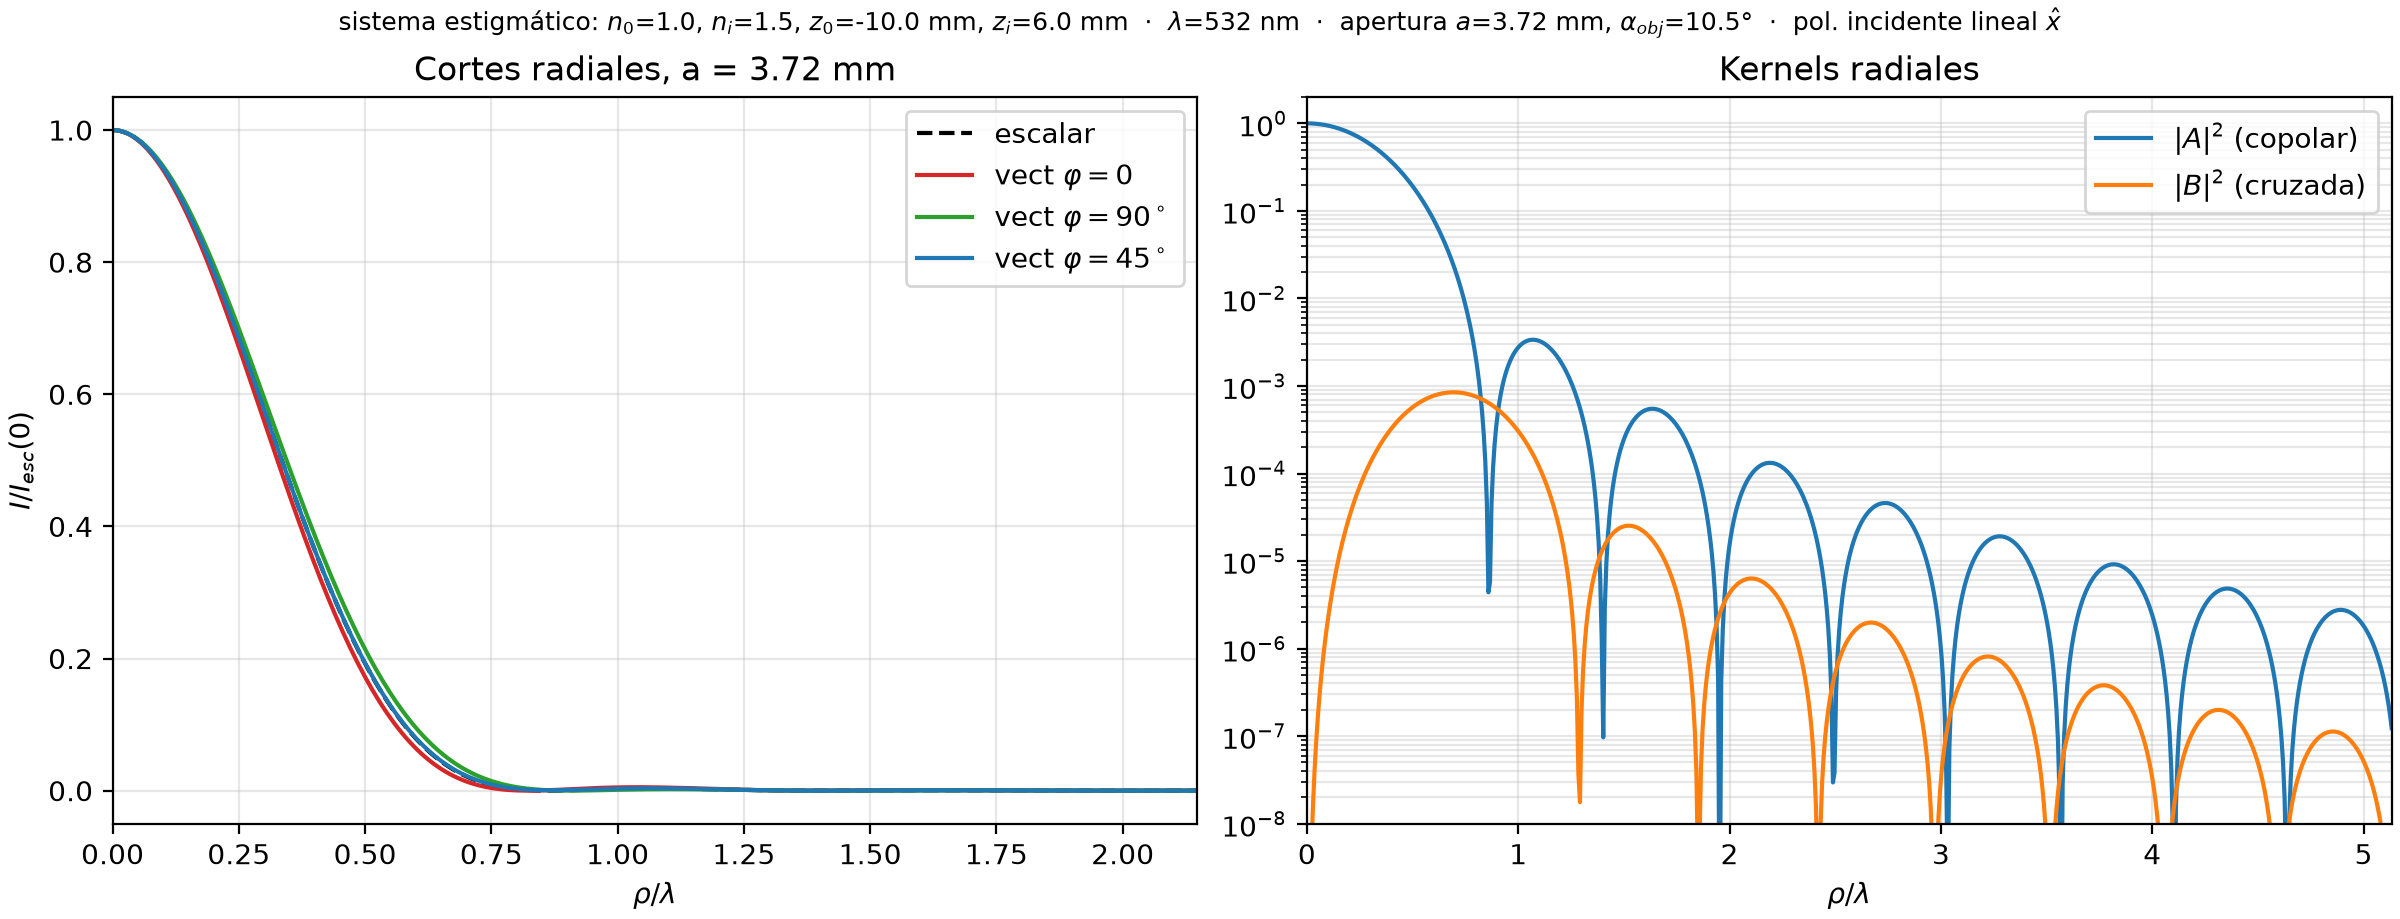
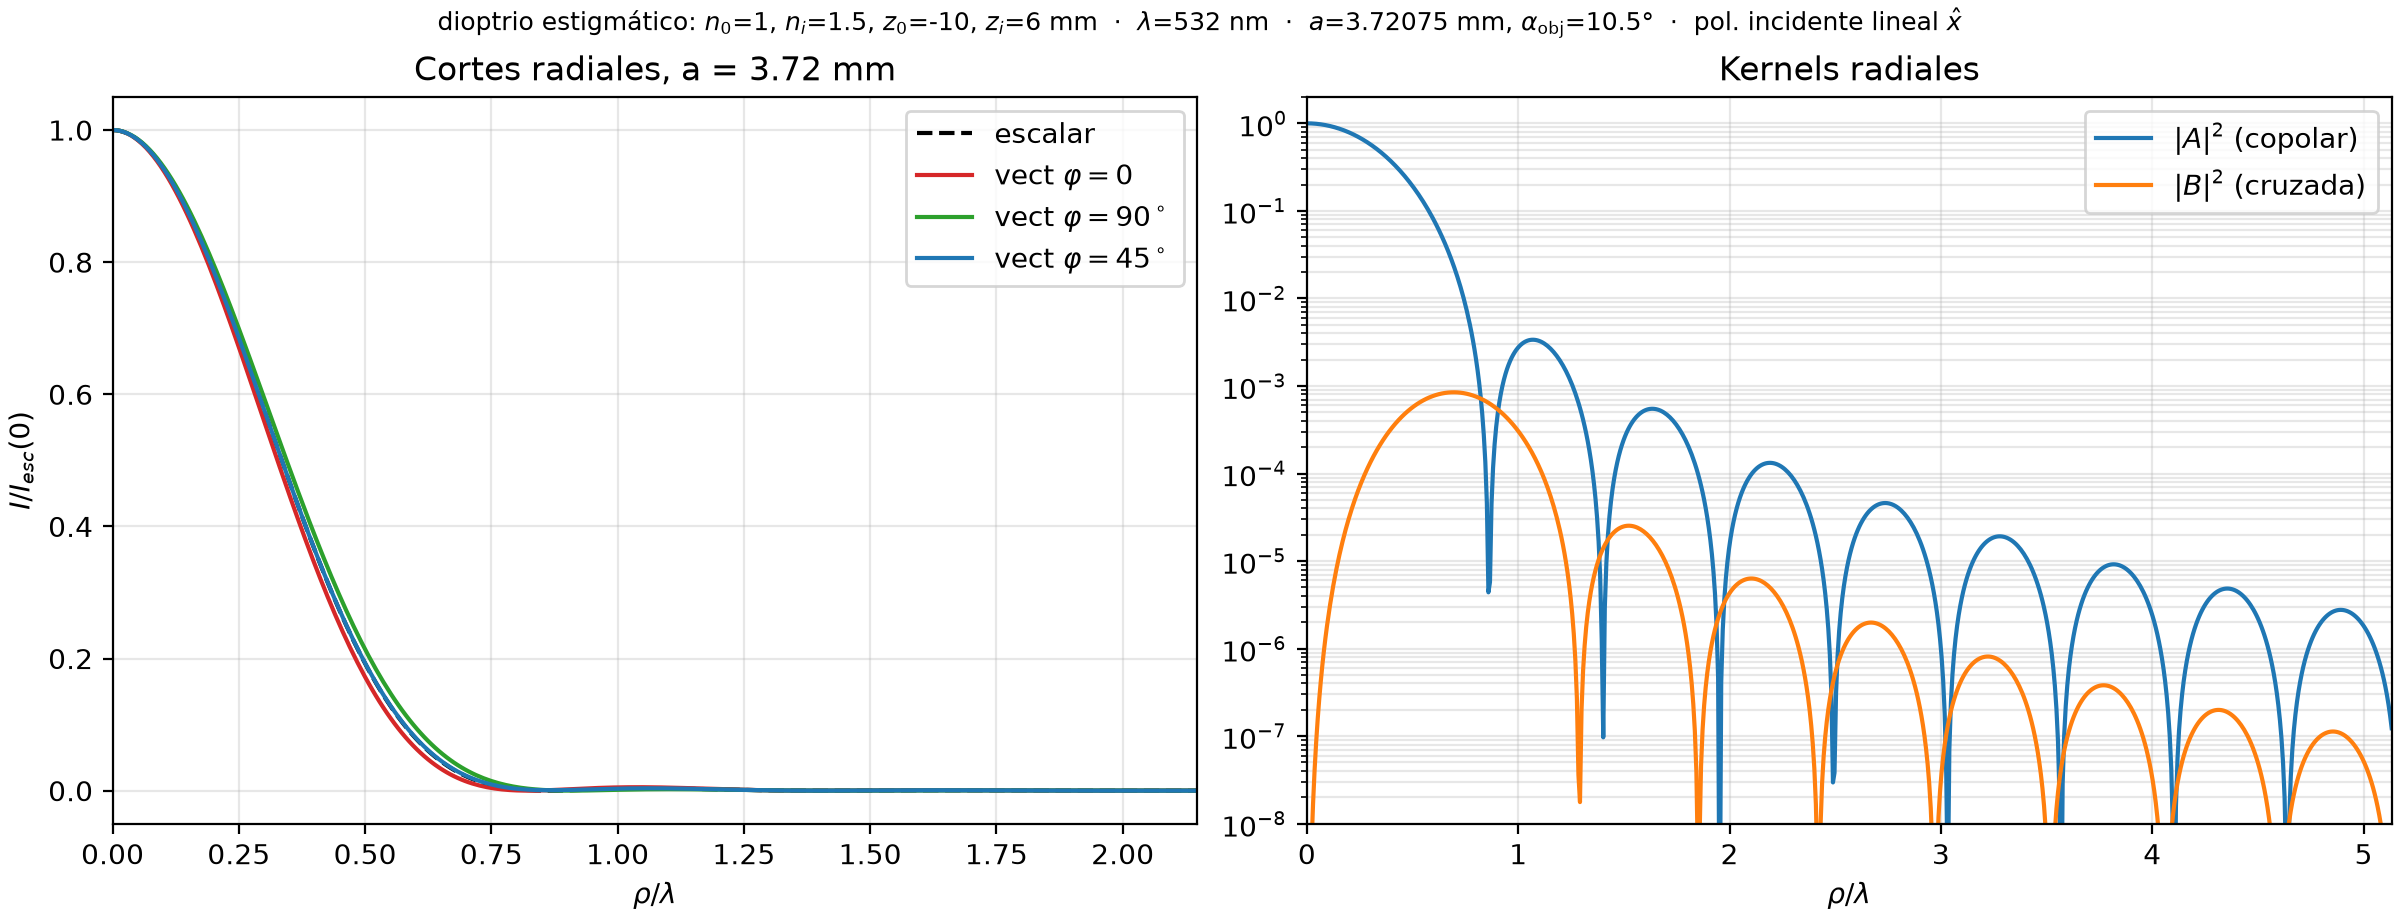
Compact the figure system captions (single line, exploit conjugation)
The two-diopter caption listed both diopters in full, which was too long.
Since the diopters are conjugate (D2 runs ni->n0 and z0(D2)=-zi(D1)), the
whole cascade is fixed by the index pair and the three axial planes
z0, zi1, zi2 -- now reported once.  Single-diopter caption trimmed with %g
formatting to drop trailing .0 as well.

Changed region(s): [[0.125, 0.0, 0.8438, 0.0305]]

diff --git a/investigation/focal_plane_aperture_study/imaging_common.py b/investigation/focal_plane_aperture_study/imaging_common.py
@@ -46,19 +46,20 @@ def airy_radius(r_a):
 
 
 def system_caption(r_a=None, *, d2=None, lam=LAM):
-    """One-line summary of the two-diopter stigmatic imaging system.
+    """Compact one-line summary of the two-diopter stigmatic imaging system.
 
-    Reports both diopters (n0, ni, z0, zi) and the wavelength; when a pupil
-    radius ``r_a`` is given, appends it and the maximum object-side aperture
-    angle ``alpha = arctan(r_a / |z0(D1)|)``.
+    The diopters are conjugate: D2 runs the indices back (ni -> n0) and its
+    object plane is fixed by D1's image plane, ``z0(D2) = -zi(D1)``.  So the
+    whole cascade is set by the index pair and the three axial planes
+    ``z0, zi1, zi2`` -- the rest is redundant and omitted.
     """
     d2 = D2 if d2 is None else d2
-    cap = (rf"D1: $n_0$={D1['n0']}$\to${D1['ni']}, $z_0$={D1['z0']}, $z_i$={D1['zi']} mm  ·  "
-           rf"D2: $n_0$={d2['n0']}$\to${d2['ni']}, $z_0$={d2['z0']}, $z_i$={d2['zi']} mm  ·  "
+    cap = (rf"dioptrios conjugados: $n_0$={D1['n0']:g}, $n_i$={D1['ni']:g}  ·  "
+           rf"$z_0$={D1['z0']:g}, $z_{{i1}}$={D1['zi']:g}, $z_{{i2}}$={d2['zi']:g} mm  ·  "
            rf"$\lambda$={lam * 1e6:.0f} nm")
     if r_a is not None:
         alpha = np.degrees(np.arctan(r_a / abs(D1["z0"])))
-        cap += rf"  ·  apertura $r_a$={r_a} mm, $\alpha_{{max}}$={alpha:.1f}°"
+        cap += rf"  ·  $r_a$={r_a:g} mm, $\alpha_\mathrm{{max}}$={alpha:.1f}°"
     return cap
 
 

diff --git a/investigation/focal_plane_aperture_study/common.py b/investigation/focal_plane_aperture_study/common.py
@@ -134,11 +134,11 @@ def system_caption(a=None, *, n0=N0, ni=NI, z0=Z0, zi=ZI, lam=LAM):
     ``a`` is given, appends it and the resulting maximum object-side aperture
     angle ``alpha_obj``.
     """
-    cap = (rf"sistema estigmático: $n_0$={n0}, $n_i$={ni}, "
-           rf"$z_0$={z0} mm, $z_i$={zi} mm  ·  $\lambda$={lam * 1e6:.0f} nm")
+    cap = (rf"dioptrio estigmático: $n_0$={n0:g}, $n_i$={ni:g}, "
+           rf"$z_0$={z0:g}, $z_i$={zi:g} mm  ·  $\lambda$={lam * 1e6:.0f} nm")
     if a is not None:
         alpha_obj, _, _ = geometry_angles(a, n0=n0, ni=ni, z0=z0, zi=zi)
-        cap += rf"  ·  apertura $a$={a:.2f} mm, $\alpha_{{obj}}$={alpha_obj:.1f}°"
+        cap += rf"  ·  $a$={a:g} mm, $\alpha_\mathrm{{obj}}$={alpha_obj:.1f}°"
     return cap
 
 
